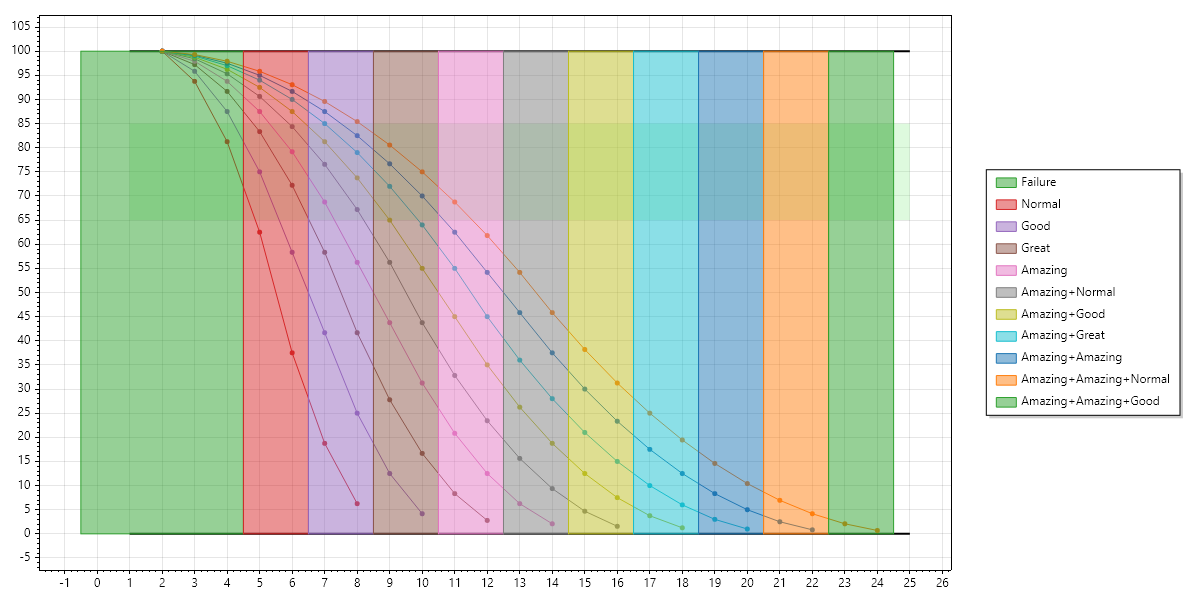
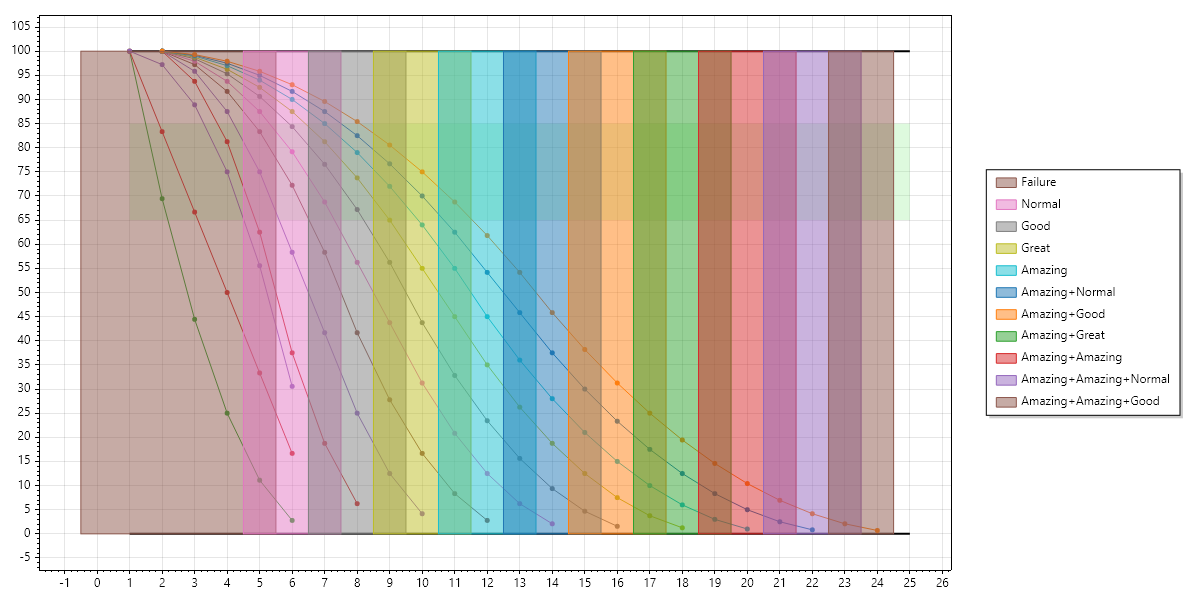
x

diff --git a/DND/Locations/Kessenval/Marrant Barony/Loran-s Oaks.md b/DND/Locations/Kessenval/Marrant Barony/Loran-s Oaks.md
@@ -1,0 +1,72 @@
+# Loran's Oaks
+
+ - [[Kingdom of Kessenval]]
+	 - [[Barony of Marrant]]
+		 - Loran's Oaks
+			 - [[Oak-s Memory Manor]]
+			 - [[#The Great Oak Market]]
+			 - [[#The Temple]]
+			 - [[#Orster Smithy]]
+			 - [[#The Acorn Inn]]
+			 - [[#Lumber Axe Tavern (skovøksen)]]
+			 - [[#Vona's Grove]]
+			 - [[#Merchant Sinter's House]]
+ 
+ About a days travel from [[King Alkan-s tomb]].
+
+## NPCs
+[[Merchant Jamus Sinter]]
+	[[Mons]]
+[[Vona in the Hedge]]
+[[Orster Sisters]]
+[[Limeram Family]]
+## Description
+The town is built around a town square with a huge solitary oak tree (Loran's Great Oak) in the centre.
+
+## Points of Interest
+
+### The Great Oak Market
+*Markedet ved den store Eg*
+Local market in the middle of the town, around the Great Oak. In the oak lives large, shiny blue beetles.
+
+### The Temple
+*Templet*
+A large round building. The local priest is a rotund, balding man.
+
+### Orster Smithy
+*Orster-smedjen*
+The sisters **Nolina** (dark hair tied back ) (blacksmith and farrier) and **Gimma** (curly red hair) (weaponsmith and armourer) run the Orster Smithy. Apprenticies (strikers).
+
+### The Acorn Inn 
+*Agernkroen*
+The Inn is run by the **Limeram** family. 
+Turnspit dogs? or just a kid?
+
+### Lumber Axe Tavern (skovøksen)
+*Skovøksen. Ølstue.*
+
+### Vona's Grove
+*Vona i Hegnet*
+The wise woman [[Vona in the Hedge]] lives in a hut in a grove close to the town.
+
+### Merchant Sinter's House
+[[Nightmares]]
+
+
+## Authorities
+The Baron Gaud is the authority. Townspeople take turns to act as watchmen.
+
+**Captain Orvin**
+
+
+[Barony of Marrant]: <Barony of Marrant.md> "Barony of Marrant"
+[Kingdom of Kessenval]: <../Kingdom of Kessenval.md> "Kingdom of Kessenval"
+[Oak-s Memory Manor]: <Oak-s Memory Manor.md> "Oak's Memory Manor"
+[King Alkan-s tomb]: <../../../Scenarios/King Alkan-s tomb.md> "King Alkan's Tomb."
+
+
+
+
+[Vona in the Hedge]: <../../../NPCs/Vona in the Hedge.md> "Vona in the Hedge"
+
+[Nightmares]: ../../../Scenarios/Nightmares.md "Nightmares"

diff --git a/Rules/Huldre Basic/Dice Mechanics.md b/Rules/Huldre Basic/Dice Mechanics.md
@@ -1,0 +1,24 @@
+# Skill Dice
+
+##  Skill Levels
+|Skill Level|Skill Dice|
+|-----------|----------|
+| 1 | 2d4 |
+| 2 | 1d4, 1d6 |
+| 3 | 2d6 |
+| 4 | 1d6, 1d8 |
+| 5 | 2d8 |
+| 6 | 1d8, 1d10 |
+| 7 | 2d10 |
+| 8 | 1d10, 1d12 |
+| 9 | 2d12 |
+
+![alt text](huldre-basic.png)
+
+## Unskilled
+
+|Ability Level|Ability Dice|
+|-----------|------------|
+| 1 | 2d6 take lowest|
+| 2 | 1d6 |
+| 3 | 2d6 take highest |

diff --git a/DND/Tokes Kampagne.md b/DND/Tokes Kampagne.md
@@ -1,0 +1,9 @@
+## Characters
+[[NKonin - Toke]], [[Xoran - Johan]], [[Robana - Peter]], [[Kalahma - Alvin]], [[Thor]]
+
+## Adventures
+Started in [[Loran-s Oaks]]
+
+[[King Alkan-s tomb]], [[Watermill]], [[Nightmares]]
+
+

diff --git a/DND/PCs/Thor.md b/DND/PCs/Thor.md
@@ -1,0 +1,1 @@
+[DND Beyond](https://www.dndbeyond.com/characters/162179036)